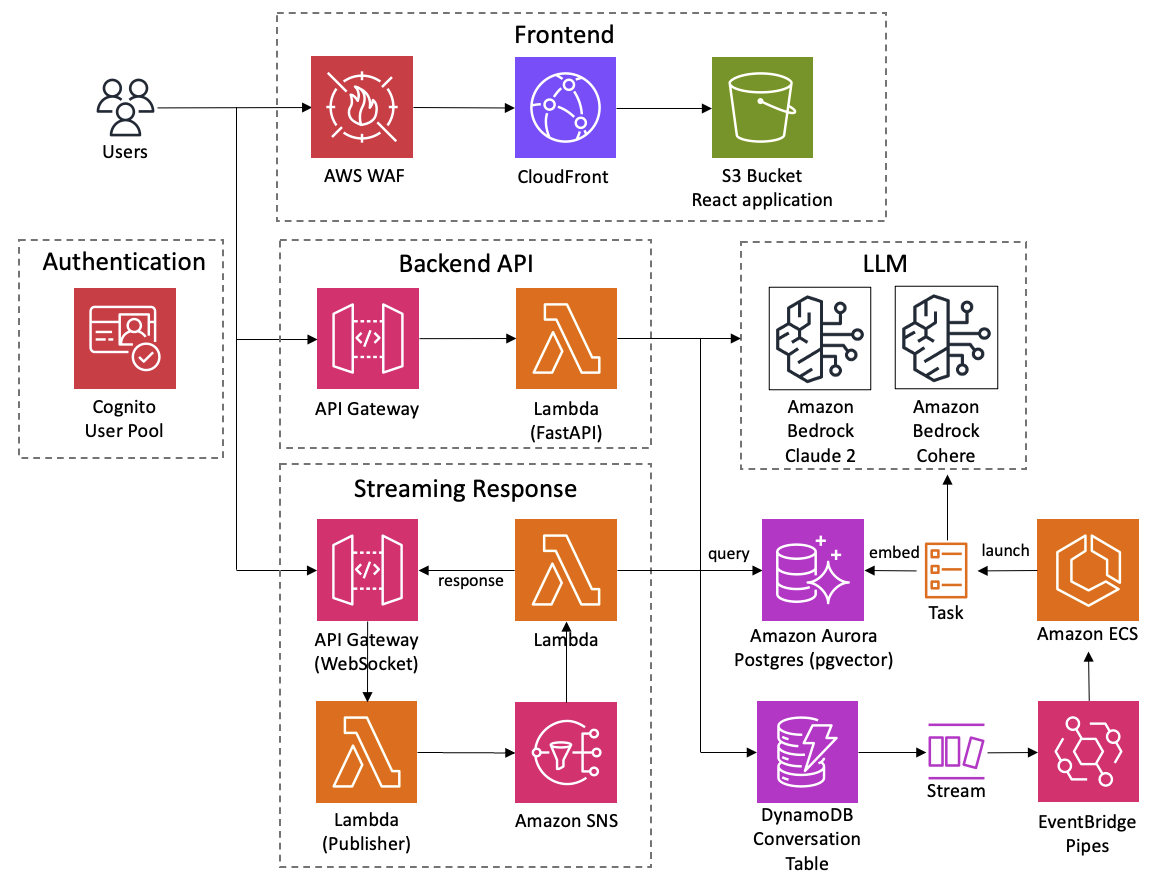
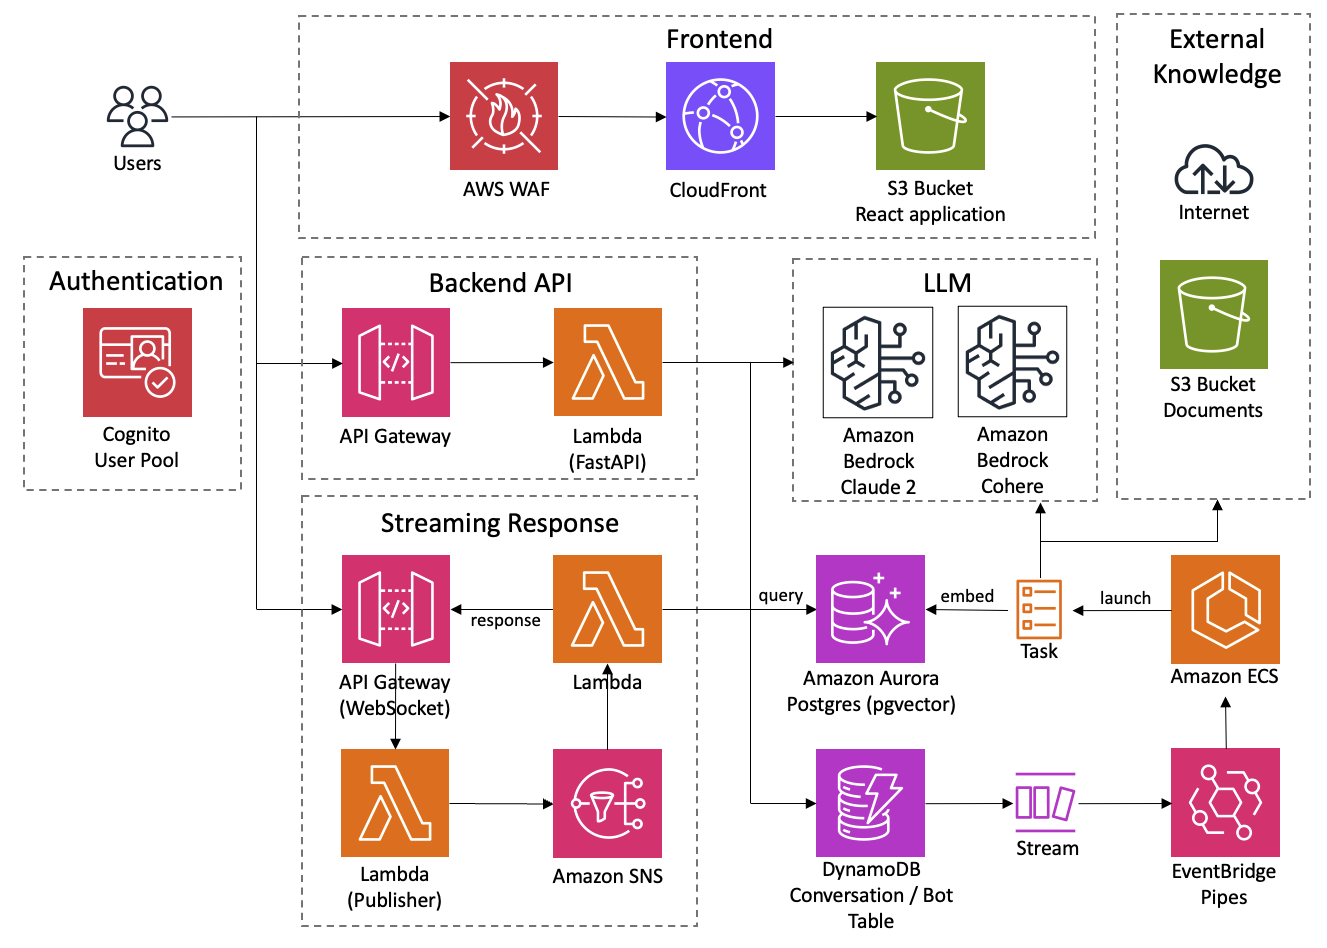
update doc

diff --git a/README.md b/README.md
@@ -53,14 +53,16 @@ It's an architecture built on AWS managed services, eliminating the need for inf
 - [Amazon CloudFront](https://aws.amazon.com/cloudfront/) + [S3](https://aws.amazon.com/s3/): Frontend application delivery ([React](https://react.dev/), [Tailwind CSS](https://tailwindcss.com/))
 - [AWS WAF](https://aws.amazon.com/waf/): IP address restriction
 - [Amazon Cognito](https://aws.amazon.com/cognito/): User authentication
-- [Amazon Bedrock](https://aws.amazon.com/bedrock/): Managed service to utilize foundational models via APIs. We use Claude for chat response and Cohere for vector embedding
-- [Amazon EventBridge Pipes](https://aws.amazon.com/eventbridge/pipes/): Receive event from DynamoDB stream and pass to ECS
-- [Amazon Elastic Container Service](https://aws.amazon.com/ecs/): Run vector embedding task
+- [Amazon Bedrock](https://aws.amazon.com/bedrock/): Managed service to utilize foundational models via APIs. Claude is used for chat response and Cohere for vector embedding
+- [Amazon EventBridge Pipes](https://aws.amazon.com/eventbridge/pipes/): Receiving event from DynamoDB stream and passing to ECS
+- [Amazon Elastic Container Service](https://aws.amazon.com/ecs/): Run crawling, parsing and embedding tasks using [LangChain](https://www.langchain.com/)
 - [Amazon Aurora PostgreSQL](https://aws.amazon.com/rds/aurora/): Vector store ([pgvector](https://github.com/pgvector/pgvector))
 
 ![](docs/imgs/arch.png)
 
 ## Features and Roadmap
+
+### Basic chat features
 
 - [x] Authentication (Sign-up, Sign-in)
 - [x] Creation, storage, and deletion of conversations
@@ -73,11 +75,24 @@ It's an architecture built on AWS managed services, eliminating the need for inf
 - [x] Edit message & re-send
 - [x] I18n
 - [x] Model switch (Claude Instant / Claude)
+- [ ] Feedback (Thumbs up and down)
+
+### Customized bot features
+
 - [x] Customized bot creation
 - [x] Customized bot sharing
-- [x] Web retriever
-- [ ] File upload / retriever
-- [ ] Admin console
+
+### RAG features
+
+- [x] Web (html)
+- [x] Text data (txt, csv, markdown and etc)
+- [x] PDF
+- [x] Microsoft office files (pptx, docx, xlsx)
+- [x] Youtube transcript
+
+### Admin features
+
+- [ ] Admin console to analyze user usage
 
 ## Deploy using CDK
 

diff --git a/docs/CONFIGURE_KNOWLEDGE.md b/docs/CONFIGURE_KNOWLEDGE.md
@@ -70,7 +70,7 @@ print(f"number of splitted documents: {len(splitted)}")
 insert_to_postgres(bot_id, contents, sources, embeddings)
 ```
 
-## Search configuration
+## Search (Query) configuration
 
 Edit [vector_search.py](../backend/app/vector_search.py).
 
@@ -97,3 +97,13 @@ SEARCH_CONFIG = {
     "max_results": 5,
 }
 ```
+
+## Playwright configuration
+
+If want to specify delay seconds to wait for the page to render by JavaScript, open [mix_loader.py](../backend/embedding/mix_loader.py) and set value for `DELAY_SEC`.
+
+```py
+DELAY_SEC = 2
+```
+
+Also see [PlaywrightURLLoader](https://python.langchain.com/docs/integrations/document_loaders/url#playwright-url-loader), which can accept `PlaywrightEvaluator` to define Playwright behavior.
